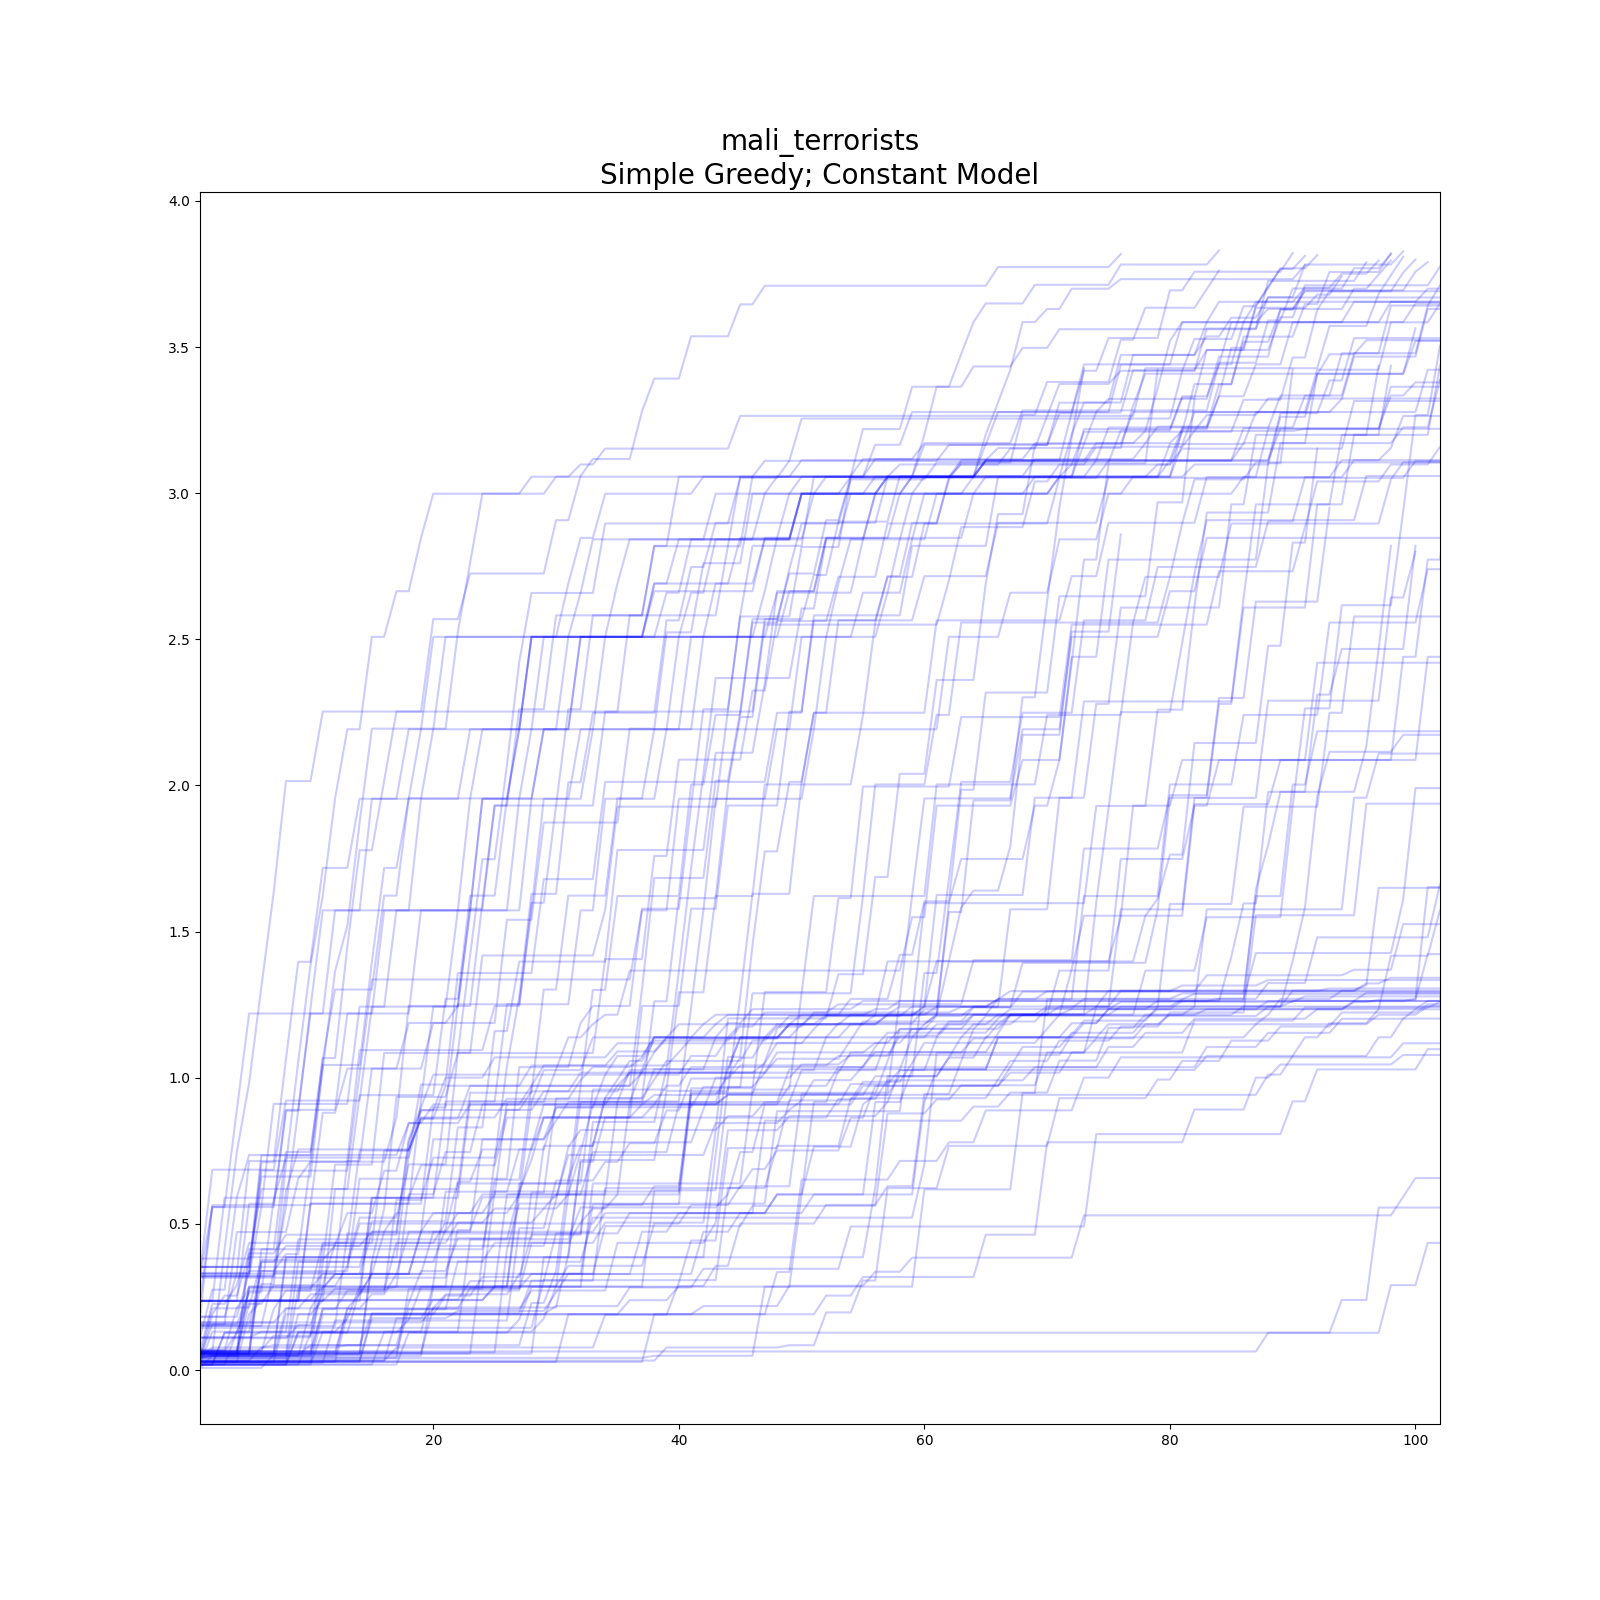
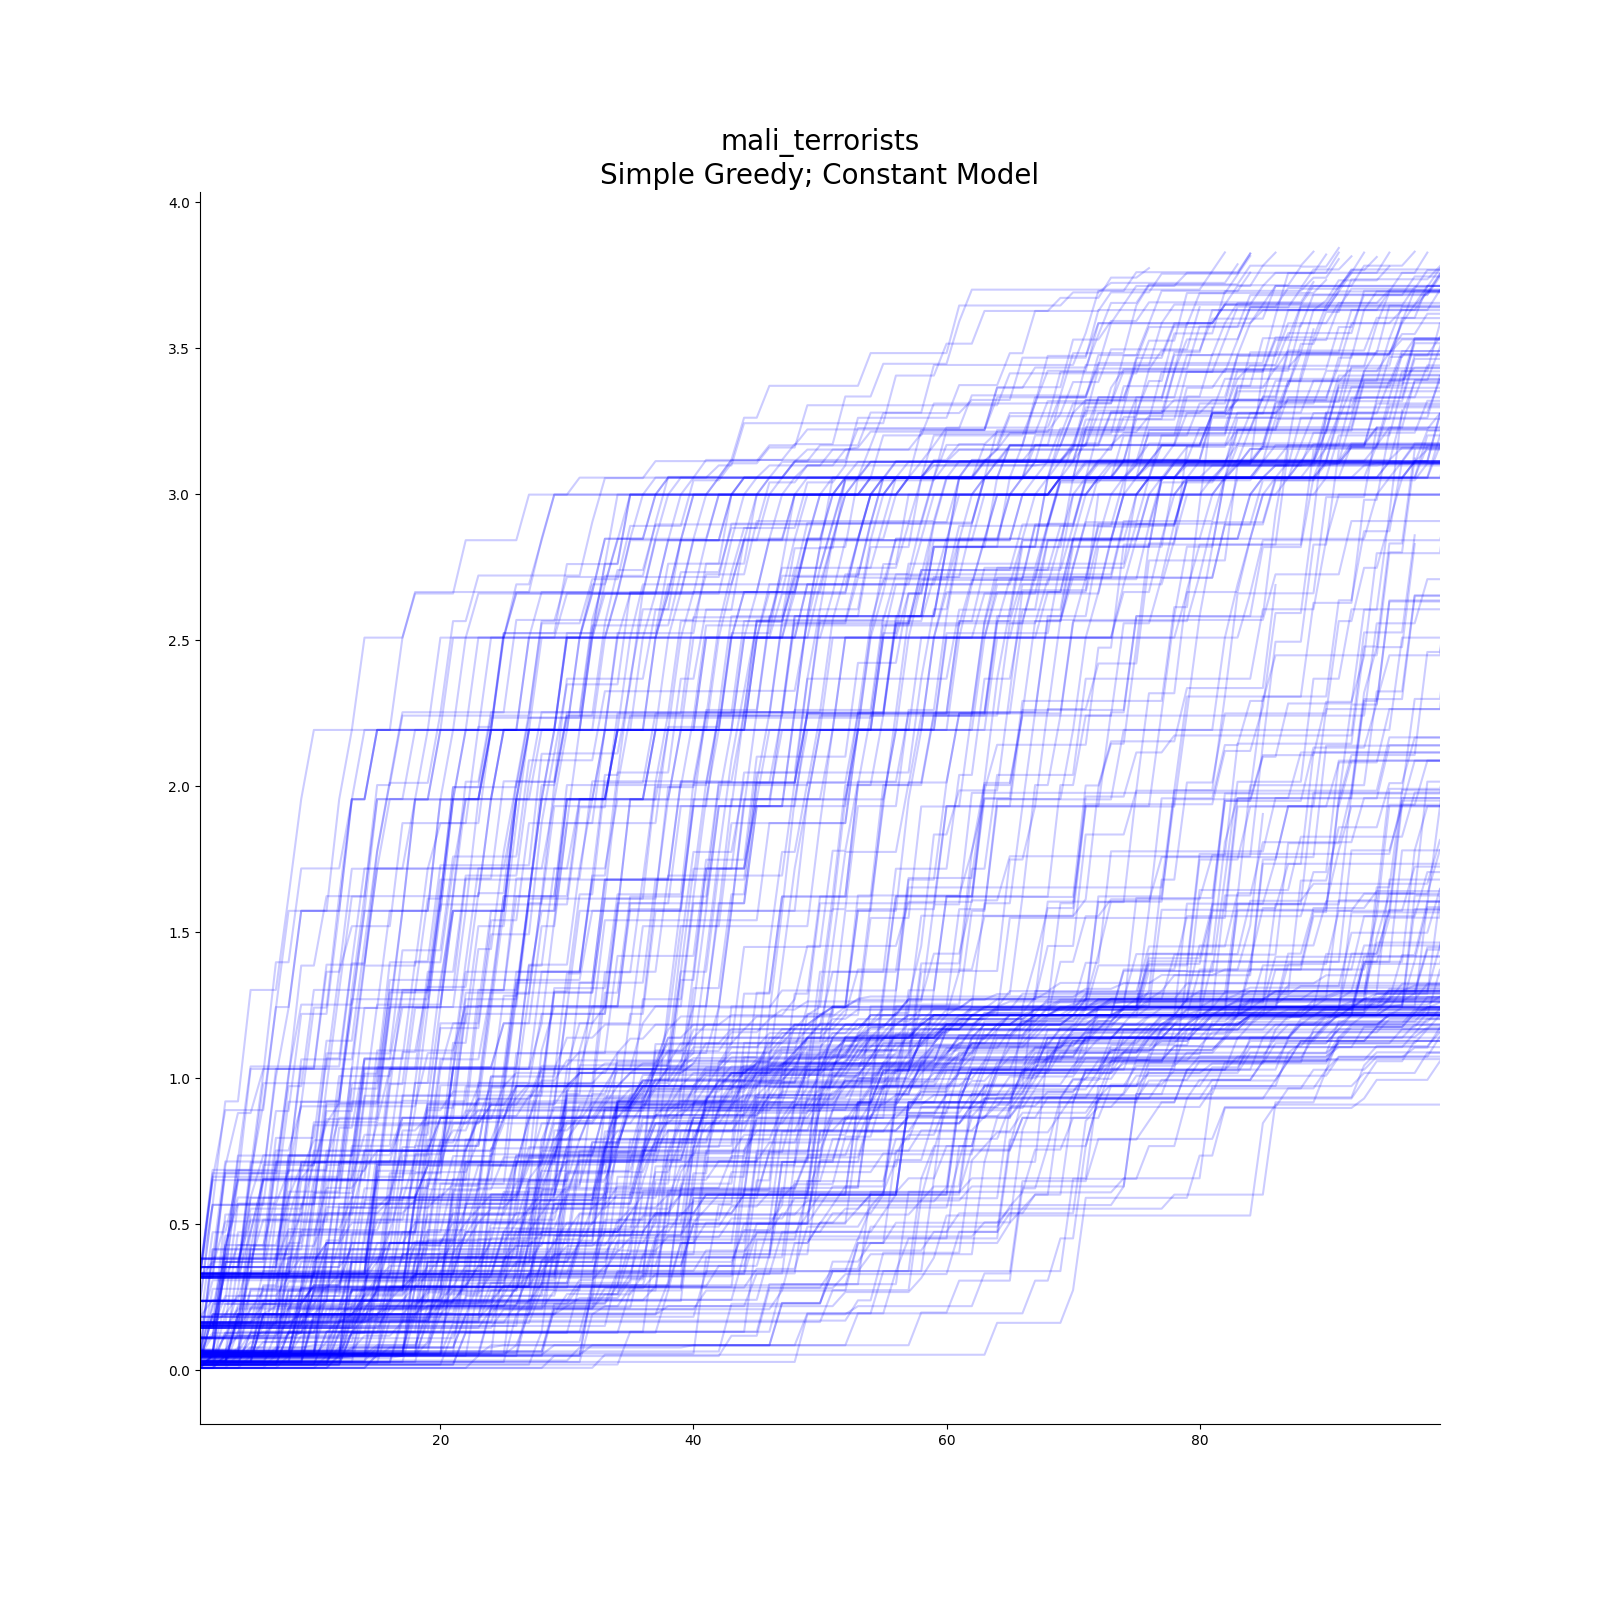
New graphs for final_project. Adjusted optimal_seed.py as well as added plotting to HW3_Q1.py

Changed region(s): [[0.125, 0.1562, 0.9062, 0.875], [0.8438, 0.75, 0.875, 0.7812]]

diff --git a/HW3/Q1/HW3_Q1.py b/HW3/Q1/HW3_Q1.py
@@ -38,7 +38,8 @@ os.chdir(os.path.dirname(os.path.realpath(__file__)))
 
 with open("giant_component_crime_networks.pkl", "rb") as infile:
     networks = pickle.load(infile)
-
+#Choose the second crime network which happens to be Mali Terrorists
+g = networks[1]
 #%%
 
 #Set a null model since we are going to be using the diffusion mode of the investigation class that was originally programmed
@@ -56,12 +57,9 @@ def optimal_seeding(graph):
     return diffused
 
 #%%
-#Choose the second crime network which happens to be Mali Terrorists
-g = networks[1]
+#Simulate for optimal seeding:
+
 sims = 60
-
-
-
 sim_records = []
 for s1, s2 in tqdm(itertools.combinations(g.nodes, 2)):
     for lamb in [1, 2]:
@@ -70,8 +68,8 @@ for s1, s2 in tqdm(itertools.combinations(g.nodes, 2)):
             #Key step here where we initiate the class and set random_catch to lambda. This is coded to generate threshold
             #values using the truncated normal as described. Otherwise we pass in the seeds, the lambda value and turn off the 
             #computing of eigenvalue centrality because it is unecessary. 
-            network = Investigation(networks[1], random_catch = "lambda", lamb=lamb, first_criminal=[s1, s2],
-                compute_eigen=False, title="mali")
+            network = Investigation(g,  random_catch = "lambda", lamb=lamb, first_criminal=[s1, s2],
+                compute_eigen=False, title=g.graph['name'])
             #Here we set the model and strategy we initiated above. 
             network.set_model(seed_model)
             network.set_strategy(optimal_seeding)
@@ -98,13 +96,14 @@ with open("optimal_seed_results.pkl", "wb") as outfile:
     pickle.dump(optimal_seed_results, outfile)
 
 #%%
+#Simulate for random diffusion: 
 
 #Same as above, but instead we sample 2 random nodes as the starting seeds and save all results into a simple dictionary
 random_diffusion = DefaultDict(list)
 for lamb in [1, 2]:
     for _ in tqdm(range(100000)):
-        network = Investigation(networks[1], random_catch = "lambda", lamb=lamb, first_criminal=sample(g.nodes, 2),
-                compute_eigen=False, title="mali")
+        network = Investigation(g, random_catch = "lambda", lamb=lamb, first_criminal=sample(g.nodes, 2),
+                compute_eigen=False, title=g.graph["name"])
         network.set_model(seed_model)
         network.set_strategy(optimal_seeding)
         network.simulate(max_criminals = 1000, max_investigations = 4)
@@ -113,6 +112,19 @@ for lamb in [1, 2]:
 with open("random_seed_results.pkl", "wb") as outfile:
     pickle.dump(random_diffusion, outfile)
 
+#%%
+
+with open("optimal_seed_results.pkl", "rb") as infile:
+    optimal_seed_results = pickle.load(infile)
+
+with open("random_seed_results.pkl", "rb") as infile:
+    random_diffusion = pickle.load(infile)
+
+
+eigen = nx.eigenvector_centrality_numpy(g, weight=None)
+network_name = g.graph["name"].split("_")
+network_name = " ".join([s.capitalize() for s in network_name])
+
 #Print statement
 for lamb in [1, 2]:
     optim = optimal_seed_results[(optimal_seed_results["Lambda"] == 1) & \
@@ -120,7 +132,33 @@ for lamb in [1, 2]:
     res = optim.loc[optim.index[0],:].to_list()
     print(f"""For Lambda = {lamb}
     The optimal seeds are {res[1]} and {res[2]} 
-    with diffusion of {res[3]} over three periods of diffusion. \n
+    with eigenvector centralities of {round(eigen[res[1]], 2)} and {round(eigen[res[2]], 2)} respectively
+    and diffusion of {round(res[3], 2)} over three periods of diffusion. \n
     Whereas using random seeding we have an expected diffusion of {np.mean(random_diffusion[lamb])}
     and variance of {round(np.var(random_diffusion[lamb]), 2)}""")
+
+
+fig, ax = plt.subplots(figsize = (14, 14))
+ax.scatter(eigen.keys(), eigen.values(), color = "black")
+ax.scatter(x = [res[1], res[2]], 
+    y = [eigen[res[1]], eigen[res[2]]],
+    color="red", marker="o", label="Optimal Seeds")
+ax.legend()
+ax.set_xlabel("Seeds")
+ax.set_ylabel("Eigenvector Centrality")
+ax.set_title(f"Eigenvector Centrality of Nodes in {network_name} (Unweighted)", fontsize=20)
+ax.spines["right"].set_visible(False)
+ax.spines["top"].set_visible(False)
+
+os.makedirs("figs", exist_ok=True)
+fig.savefig(os.path.join("figs", f"{g.graph['name']}_eigens.png"), facecolor="white", transparent=False, dpi=300)
 #%%
+node_colors = ["blue" for node in g.nodes]
+node_colors[int(res[1])] = "red"
+node_colors[int(res[2])] = "red"
+fig2, ax2 = plt.subplots(figsize=(14, 14))
+nx.draw_spring(g, ax=ax2, with_labels=True, node_color=node_colors)
+ax2.set_axis_off()
+ax2.set_title(network_name, fontsize=20)
+fig2.savefig(os.path.join("figs", f"{g.graph['name']}_plot.png"), facecolor="white", transparent=False, dpi=300)
+# %%

diff --git a/HW3/Q1/optimal_seed.py b/HW3/Q1/optimal_seed.py
@@ -62,6 +62,7 @@ class Investigation():
         nx.set_edge_attributes(self.crime_network, informed_color, "color")
 
         #Intiialize thresholds
+        self.lamb = lamb
         self.random_catch = random_catch
         if self.random_catch == "lambda":
             thresholds = np.random.normal(lamb, 0.5, len(self.crime_network.nodes))
@@ -217,6 +218,8 @@ class Investigation():
             elif np.random.uniform() < p:
                 self._caught_suspect(suspect)
         self.investigations += 1
+        self._log_stats()
+
 
         if update_plot:
             if self.ax and self.fig:
@@ -250,7 +253,6 @@ class Investigation():
             if len(self.caught) == len(self.crime_network.nodes):
                 break
             self.investigate(update_plot=update_plot, **kwargs)
-            self._log_stats()
             if update_plot:
                 sleep(sleep_time)
 
@@ -301,14 +303,24 @@ class Investigation():
             keep_fig: If true, does not reset the current figure and ax. Set to true and run subsequent simulations using update_plot
                 to keep refreshing to a new figure
         '''
+
         nx.set_node_attributes(self.crime_network, False, "suspected")
         nx.set_node_attributes(self.crime_network, False, "caught")
         nx.set_edge_attributes(self.crime_network, False, "informed")
         nx.set_node_attributes(self.crime_network, self.criminal_color, "color")
         nx.set_edge_attributes(self.crime_network, self.informed_color, "color")
+
+        #Intiialize thresholds
+        if self.random_catch == "lambda":
+            thresholds = np.random.normal(self.lamb, 0.5, len(self.crime_network.nodes))
+            thresholds = {node:max(0, t) for node, t in zip(self.crime_network.nodes, thresholds)}
+            nx.set_node_attributes(self.crime_network, thresholds , "catch_proba")
+        self.eigen = False       
+                
         self.investigations = 1
         self.caught = []
         self.suspects = []
+        self.log = DefaultDict(list)
 
         self.current_investigation = None
         if first_criminal == None:
@@ -317,7 +329,11 @@ class Investigation():
         if not keep_fig:
             self.fig = None
             
-        self._caught_suspect(first_criminal)
+        if isinstance(first_criminal, list):
+            for criminal in first_criminal:
+                self._caught_suspect(criminal)
+        else:
+            self._caught_suspect(first_criminal)
         self._log_stats()
         if verbose:
             print("Crime network reset.")

diff --git a/final_project/code/strategy_evaluation.py b/final_project/code/strategy_evaluation.py
@@ -82,6 +82,8 @@ def evaluate_strategies(graphs:list, sims:int, max_criminals:int, max_investigat
                 fig, ax = plot_simulations(investigation=inv,
                     sims=sims, max_criminals=max_criminals, max_investigations=max_investigations,
                     title=f"{inv.crime_network.graph['name']}\n{strat_name}; {model_name} Model", **plot_kwargs)
+                ax.spines["right"].set_visible(False)
+                ax.spines["top"].set_visible(False)
                 fig.savefig(os.path.join(savepath, 
                     f"{inv.crime_network.graph['name']}_{filepaths[strat_name]}_{model_name.lower().replace(' ','')}.png"),
                     facecolor="white", transparent=False)
@@ -94,9 +96,9 @@ with open(os.path.join("data", "processed_data", "giant_component_crime_networks
     graphs = pickle.load(infile)
 
 models = {constant_model:{"c":0.05, "weighted":True}}
-strategies = {simple_greedy:{}, least_central_criminal:{}, least_central_criminal:{"use_eigen":False}}
+strategies = {least_central_criminal:{"use_eigen":False}}
 model_names = ["Constant"]
-strategy_names = ["Simple Greedy", "Least Central Criminal Eigen", "Least Central Criminal"]
+strategy_names = ["Least Central Criminal"]
 
 evaluate_strategies(graphs=graphs,
     sims=300,
